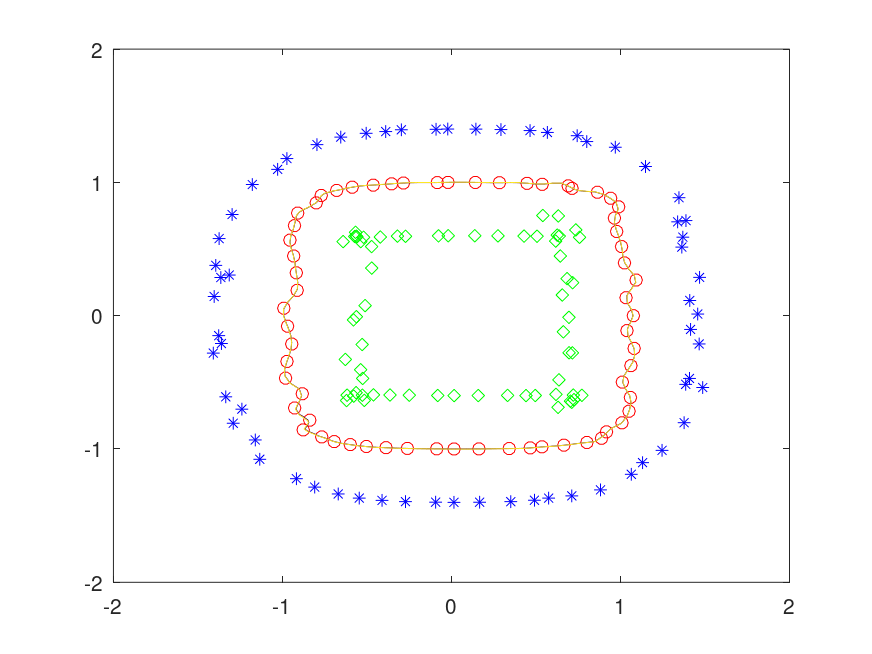
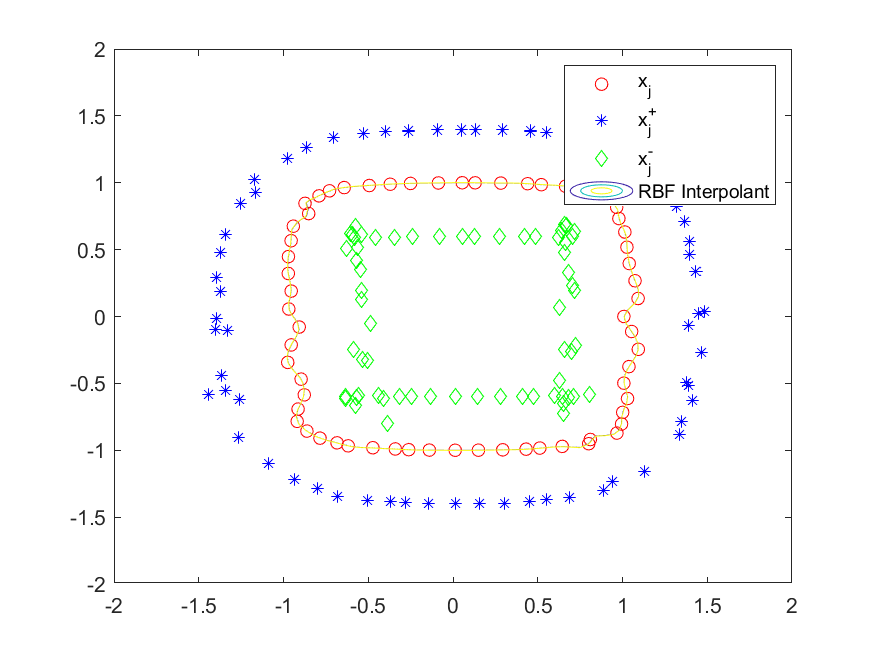
MATH6680/Homework4: Updated plots.

diff --git a/2023/spring/MATH6680_ScientificComputationII/Homework4/problem_1.m b/2023/spring/MATH6680_ScientificComputationII/Homework4/problem_1.m
@@ -14,7 +14,7 @@ xzero = [x y];
 N = length(t); %total number of points in the point cloud
 
 plot(x, y, 'k.')
-% axis equal
+axis equal
 
 xzero = [xzero(end, :); xzero; xzero(1, :)];
 
@@ -35,7 +35,7 @@ plot(xzero(:, 1), xzero(:,2), 'ro', 'DisplayName', 'x_j')
 hold on
 plot(xplus(:,1), xplus(:, 2), 'b*', 'DisplayName', 'x_j^+')
 plot(xminus(:,1), xminus(:, 2), 'gd', 'DisplayName', 'x_j^-')
-% legend()
+legend()
 
 axis([-2 2 -2 2])
 print('problem_1i.png', '-dpng')
@@ -46,7 +46,7 @@ hold on
 plot3(xplus(:, 1), xplus(:, 2), alpha*ones(N, 1), 'b*', 'DisplayName', 'x_j^+')
 plot3(xminus(:, 1), xminus(:, 2), -alpha*ones(N, 1), 'gd', 'DisplayName', 'x_j^-')
 axis([-2 2 -2 2 -3*alpha 3*alpha])
-% legend()
+legend()
 grid on
 hold on
 
@@ -95,5 +95,5 @@ axis([-2 2 -2 2])
 v = [-alpha, 0, alpha];
 v = [0, 0.001];
 contour(Xplot, Yplot, Zplot, v, 'DisplayName', 'RBF Interpolant')
-% legend()
+legend()
 print('problem_1iii.png', '-dpng')
